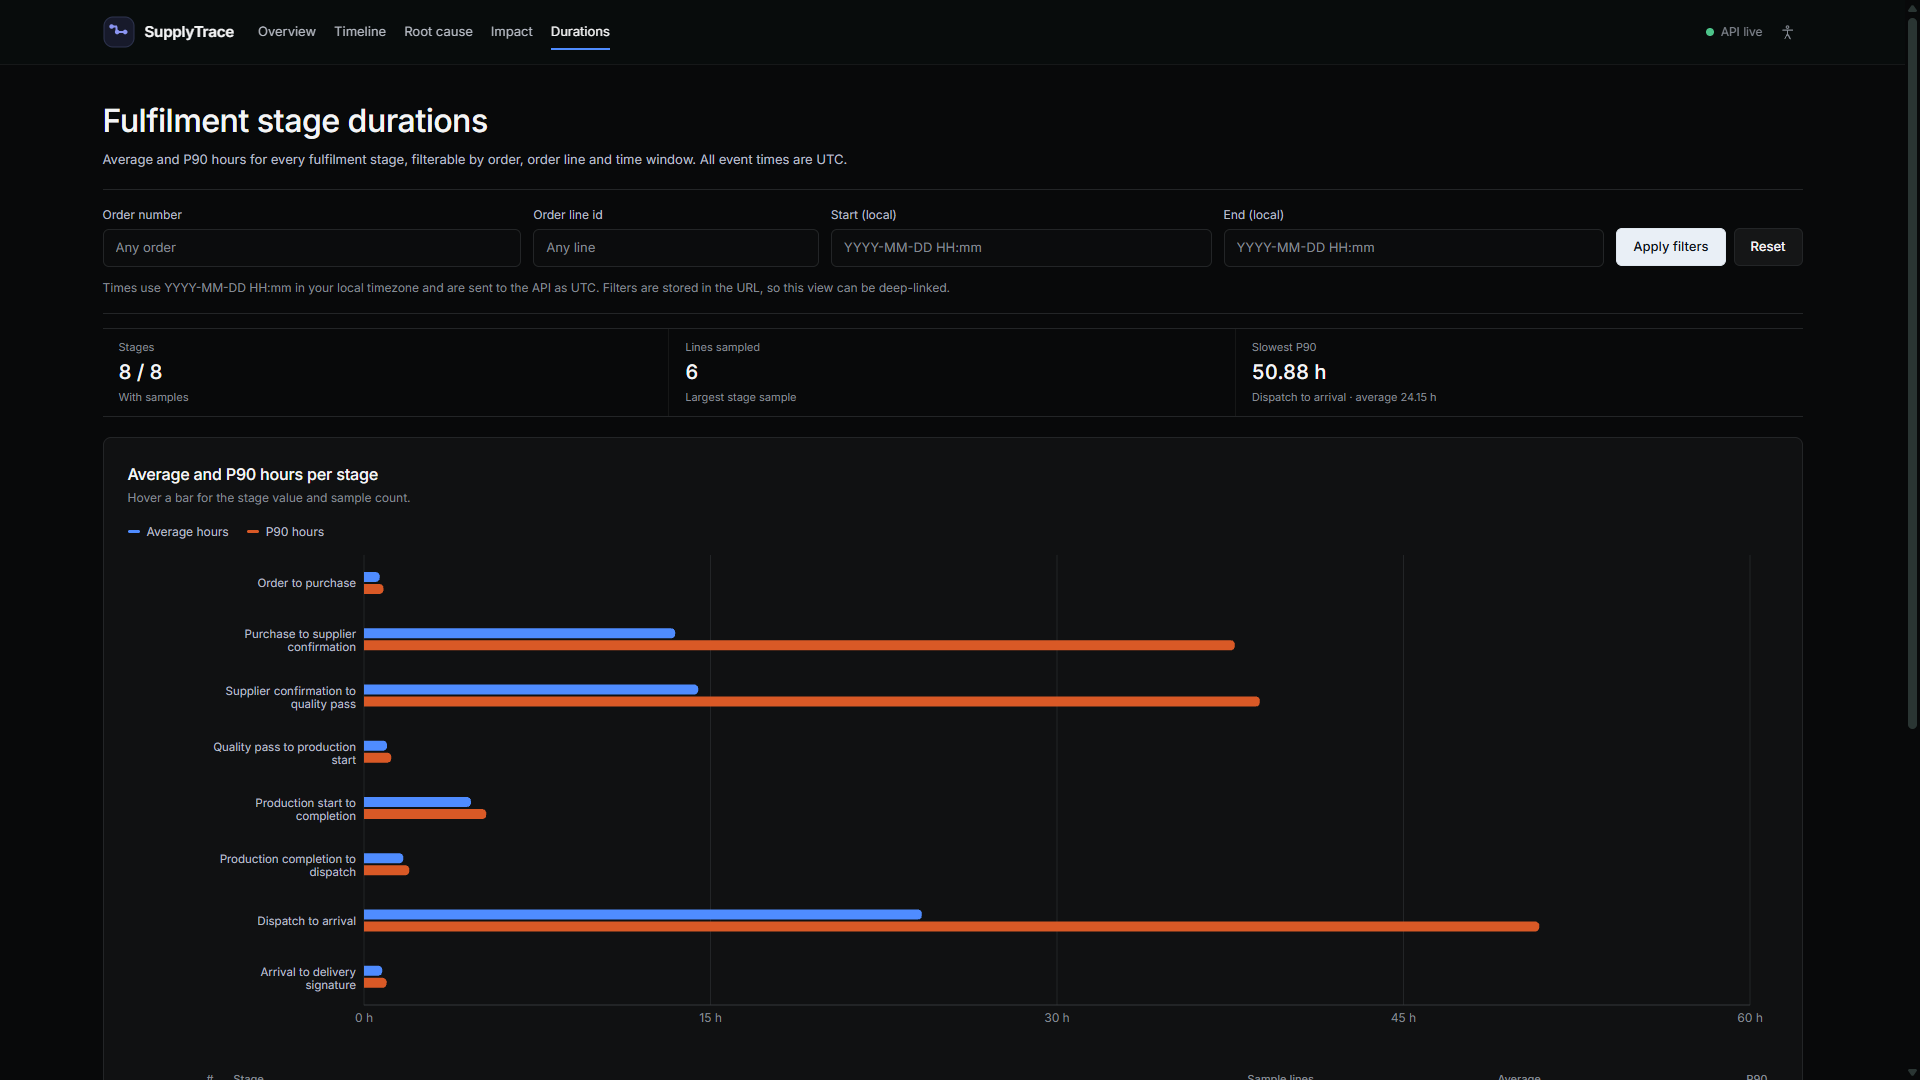
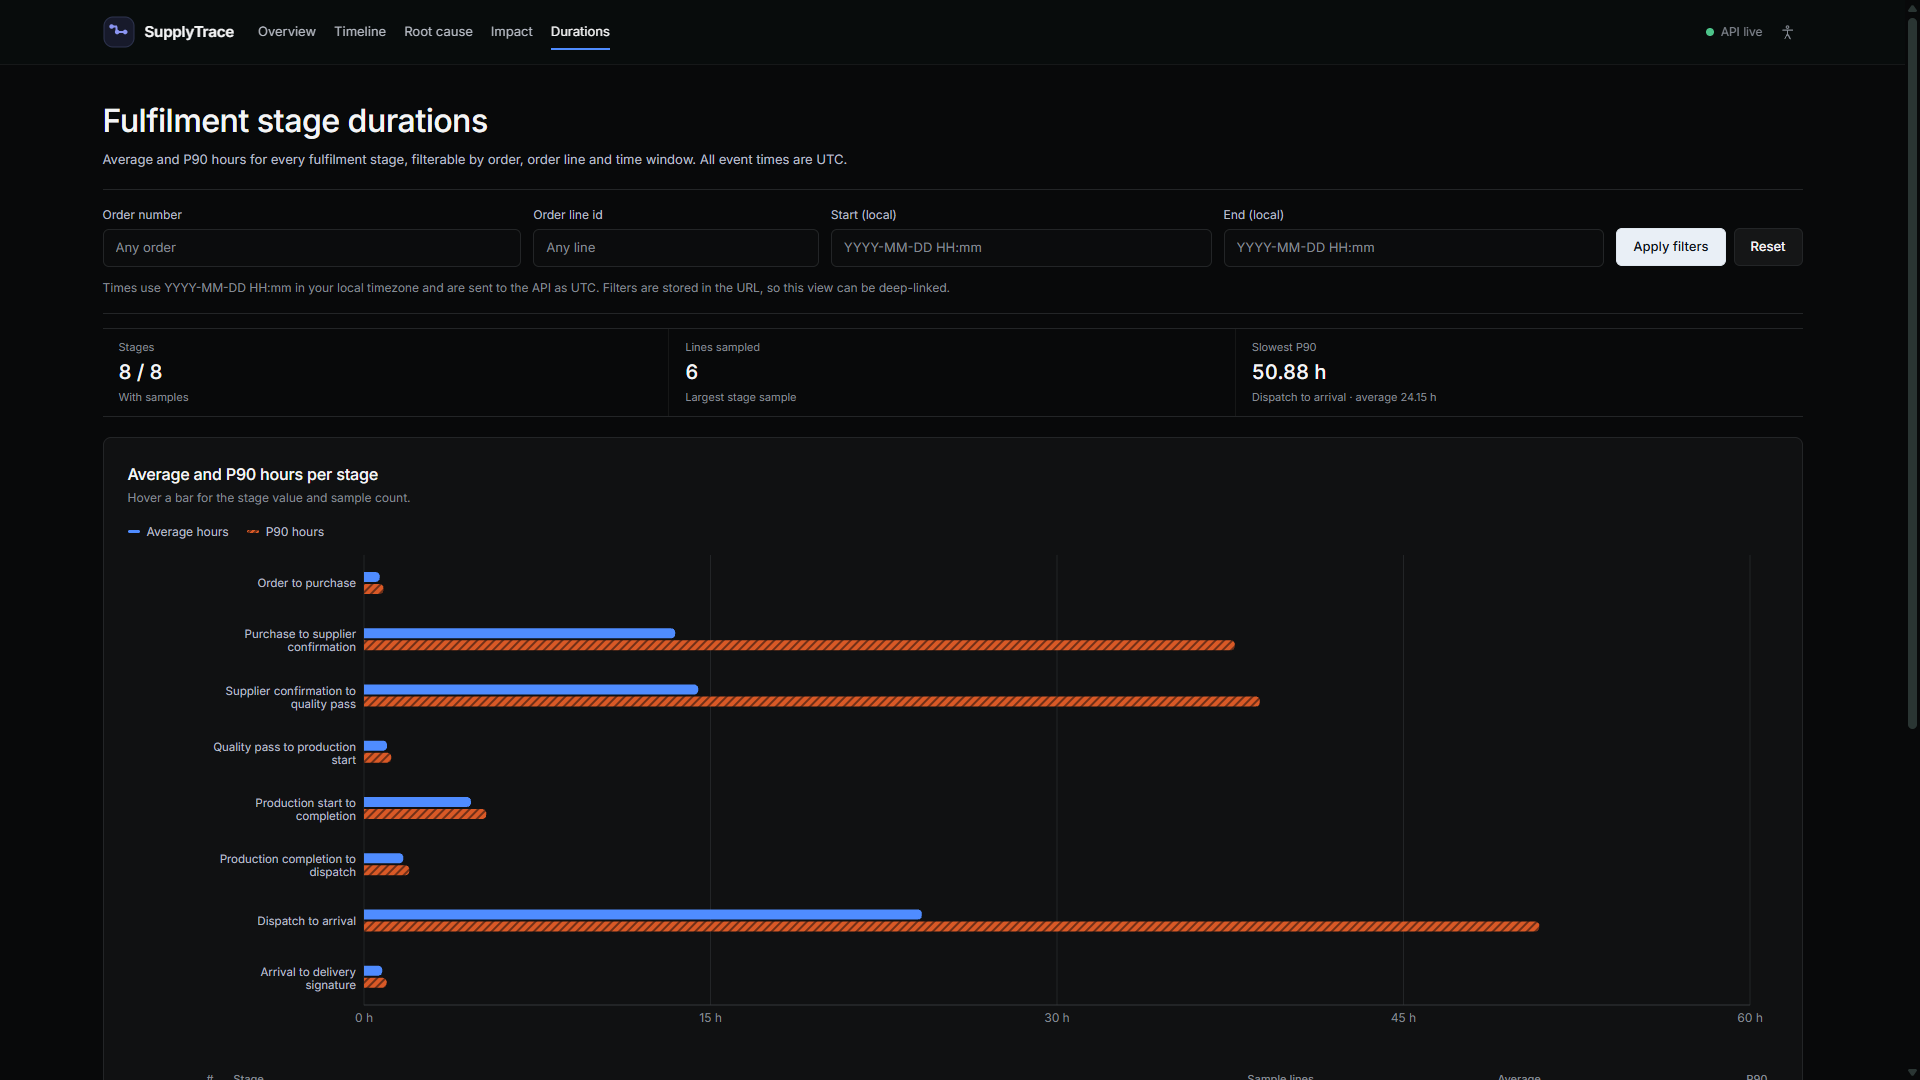
feat(frontend): add a non-color pattern to the P90 series

diff --git a/frontend/src/components/DurationChart.tsx b/frontend/src/components/DurationChart.tsx
@@ -11,6 +11,10 @@ import type { Stage } from '../types'
 import { formatHours, formatNumber } from '../lib/format'
 import { SERIES } from '../lib/theme'
 
+const P90_PATTERN = 'p90-stripes'
+const P90_HATCH =
+  'repeating-linear-gradient(135deg, transparent 0 2px, rgba(8, 9, 10, 0.5) 2px 4px)'
+
 interface TooltipItem {
   value?: number | null
   name?: string
@@ -72,7 +76,14 @@ function DurationTooltip({ active, label, payload }: DurationTooltipProps) {
       <div className="chart-tooltip__rows">
         {payload.map((item) => (
           <div className="chart-tooltip__row" key={String(item.dataKey)}>
-            <span className="chart-tooltip__key" style={{ background: item.color }} />
+            <span
+              className="chart-tooltip__key"
+              style={
+                item.dataKey === 'p90'
+                  ? { backgroundColor: SERIES.p90, backgroundImage: P90_HATCH }
+                  : { background: item.color }
+              }
+            />
             <span className="chart-tooltip__value">{formatHours(item.value ?? null)}</span>
             <span className="chart-tooltip__name">{item.name}</span>
           </div>
@@ -102,7 +113,10 @@ export function DurationChart({ stages }: { stages: Stage[] }) {
           Average hours
         </span>
         <span className="chart-legend__item">
-          <span className="chart-legend__swatch" style={{ background: SERIES.p90 }} />
+          <span
+            className="chart-legend__swatch"
+            style={{ backgroundColor: SERIES.p90, backgroundImage: P90_HATCH }}
+          />
           P90 hours
         </span>
       </div>
@@ -115,6 +129,18 @@ export function DurationChart({ stages }: { stages: Stage[] }) {
             barGap={2}
             barCategoryGap="26%"
           >
+            <defs>
+              <pattern
+                id={P90_PATTERN}
+                width="6"
+                height="6"
+                patternUnits="userSpaceOnUse"
+                patternTransform="rotate(45)"
+              >
+                <rect width="6" height="6" fill={SERIES.p90} />
+                <rect width="2" height="6" fill="rgba(8, 9, 10, 0.5)" />
+              </pattern>
+            </defs>
             <CartesianGrid horizontal={false} stroke="#232527" strokeWidth={1} />
             <XAxis
               type="number"
@@ -148,7 +174,7 @@ export function DurationChart({ stages }: { stages: Stage[] }) {
             <Bar
               dataKey="p90"
               name="P90"
-              fill={SERIES.p90}
+              fill={`url(#${P90_PATTERN})`}
               barSize={10}
               radius={[0, 4, 4, 0]}
               isAnimationActive={false}

diff --git a/frontend/src/styles.css b/frontend/src/styles.css
@@ -1,4 +1,3 @@
-/* avoid-ai-design-ignore: SD2 status colors are semantic, not a brand accent; accent is blue. */
 :root {
   color-scheme: dark;
   --page: #08090a;

diff --git a/frontend/README.md b/frontend/README.md
@@ -90,7 +90,7 @@ Mock 模式只包含供应商延期路径（订单 `SO-SYN-000001` / `SO-SYN-000
 - 右上角 `Display` 菜单提供 `Color vision` 四档：`Standard`、`Red-green safe`（蓝/橙/品红）、`Blue-yellow safe`（绿/朱红/品红）、`Monochrome`（整页灰度 + 明度层级 + 圆/方/菱形/空心标记）；菜单内 `Status markers` 图例用颜色和文字标出 Normal/Warning/Failed/Completed/Cancelled，Monochrome 下同一图例显示对应形状。另有 `High contrast` 和 `Reduce motion`。偏好写入 localStorage，状态仍带图标与文字标签。
 - 根因页 Event context 的 Order / line 优先显示订单号（基准场景映射或 `?order=` 上下文），只有未知事件才退回内部 `#id`；从受影响订单打开导航时，Root cause / Impact 指向该场景的根因事件。
 - 影响图在每条订单 lane 的起始卡片上方标注订单号，并在面板说明中按自上而下列出订单，长图滚动时也能从起点识别每条链。
-- 最新异常表在订单号下显示客户、在时间下显示承诺日期，便于先按客户和承诺做分诊；耗时页主指标为 `Slowest P90`，平均值保留在副文案和图表中。
+- 最新异常表在订单号下显示客户、在时间下显示承诺日期，便于先按客户和承诺做分诊；耗时页主指标为 `Slowest P90`，平均值保留在副文案和图表中。P90 柱使用斜纹填充，Average 保持实心，颜色之外还有纹理可区分。
 - 导航以 `sessionStorage` 记住最近一组有效上下文（查看的订单、事件及其所属订单）；回到 Overview/Durations 后仍指向它，导航的 Root cause / Impact 也带 `?order=`。从事件进入某订单的时间线后，该订单的 Root cause / Impact 继续使用刚看过的事件，不会退回场景根事件；直接打开订单时由时间线发布该订单最新异常作为导航锚点。首次打开仍使用 demo 默认值。
 - 导航不绑定具体订单号或事件号：订单页锚点来自时间线响应，事件页来自 URL/接口；`DEMO_ORDER_NUMBERS`、场景映射和 `DEFAULT_*` 只是 `demo.ts` 里的演示配置。接入真实订单时，把服务端订单列表传给 `useRecentExceptions(orderNumbers)`，并替换这些默认值即可。事件/根因响应目前只有 `order_id`；若要让不带 `?order=` 的真实事件深链显示订单号，后端响应需补 `order_number`（或提供事件→订单查询）。
 - 界面文案、代码注释和属性文案全部使用英文；日期/数字输入使用英文文本框，不依赖浏览器本地化的原生控件文案。仓库 README 按团队习惯使用中文。
@@ -120,6 +120,6 @@ frontend/
 - `npm test` 通过：8 个测试文件、43 项测试（ID 解析、日期解析、阶段统计、图深度/选中节点、演示场景与 `benchmark_cases.json` 对齐、最新异常排序、时间线倒序、导航上下文解析与持久化、时间线请求合并与单调用方取消、网络/503 重试与 404 不重试）。
 - 四个视图与供应商延期路径已在本机真实 FastAPI + PostgreSQL 上逐页截图检查（1920×1080、1280、768、512、375 宽度）；另外两个基准场景的接口返回值经 API 验证。
 - 在 100,000 事件库（seed 5003，10,989 订单）上复测：基准场景的订单时间线、根因链、影响节点数和受影响订单与 57 事件库完全一致；耗时页显示 10,989 个样本（P90 15.43 h / 平均 13.06 h）；随机订单 `SO-SYN-010989` 和随机事件 `#38546` 可正常深链；1280/375 无控制台错误或横向溢出。
-- 路由级代码分割：主包 294.9 kB（gzip 92.7 kB），耗时页 378.1 kB（gzip 108.9 kB，含 Recharts）。
+- 路由级代码分割：主包 294.9 kB（gzip 92.7 kB），耗时页 378.6 kB（gzip 109.1 kB，含 Recharts）。
 - 数据 GET 请求对网络错误和 502/503/504 自动重试一次（约 300 ms 后）；懒加载 chunk 失效时 `ErrorBoundary` 会自动刷新一次，避免开发期 HMR 或部署切换留下错误页。503/504 错误页已用受控响应拦截截图验证，错误码与 HTTP 状态均来自统一信封。
 - API 契约与错误码以 [docs/part3/API_CONTRACT.md](../docs/part3/API_CONTRACT.md) 为准；字段未在前端猜测或改名。

diff --git a/docs/part4/README.md b/docs/part4/README.md
@@ -50,10 +50,10 @@ Precision Dark：中性石墨表面、发丝边框、单一蓝色强调色；Nor
 - 影响图在每条订单 lane 的起始卡片上方标注订单号，并按自上而下的顺序在说明中列出，避免把并行的订单链误读为重复事件。
 - 顶栏 `Display` 菜单提供 `Color vision` 四档（Standard / Red-green safe / Blue-yellow safe / Monochrome）、高对比度和减少动效，偏好保存在本地；菜单内 `Status markers` 图例用颜色和文字标出各状态，Monochrome 下整页转灰度，同一图例显示圆/方/菱形/空心标记；状态徽章和圆点始终带图标与文字，不依赖单一颜色。
 - 从受影响订单进入导航时，Root cause / Impact 指向该场景的根因事件（例如订单 2 指向 `#3`，不再指向订单 1 的 `#10`）；根因页 Event context 显示订单号而非只有内部 `#id`。
-- 最新异常表补充客户与承诺日期（订单号/时间下方副行），耗时页主指标改为 `Slowest P90`，平均值保留在副文案和图表中。
+- 最新异常表补充客户与承诺日期（订单号/时间下方副行），耗时页主指标改为 `Slowest P90`，平均值保留在副文案和图表中；P90 柱使用斜纹填充，Average 保持实心，不依赖颜色区分两个系列。
 - 导航以 sessionStorage 记住最近一组有效上下文（订单、事件及其所属订单）；从事件页回到 Overview 后，Timeline / Root cause / Impact 不再跳回 demo 默认值，事件导航链接也继续带 `?order=`。从事件进入订单时间线后，该订单的 Root cause / Impact 保持刚看过的事件；直接打开订单时由时间线发布该订单最新异常作为锚点，不会落到另一个订单的场景根事件。
 - 导航逻辑不绑定具体订单号/事件号：订单页来自时间线响应，事件页来自 URL；demo 订单列表、场景映射和默认值集中在 `demo.ts`。接入真实订单时把服务端订单列表传给 `useRecentExceptions(orderNumbers)` 并替换演示默认值即可；不带 `?order=` 的真实事件深链还需后端在事件响应中补 `order_number`。
-- `npm run typecheck`、`npm run build`、`npm test` 通过（8 个测试文件、43 项测试）；路由级代码分割后主包 294.9 kB（gzip 92.7 kB），耗时页 378.1 kB（gzip 108.9 kB，含 Recharts）。
+- `npm run typecheck`、`npm run build`、`npm test` 通过（8 个测试文件、43 项测试）；路由级代码分割后主包 294.9 kB（gzip 92.7 kB），耗时页 378.6 kB（gzip 109.1 kB，含 Recharts）。
 - 数据 GET 请求对网络错误和 502/503/504 自动重试一次（约 300 ms 后）；懒加载 chunk 失效时 `ErrorBoundary` 自动刷新一次，减少偶发错误页需要手动刷新的情况。
 
 ## 三个基准场景的界面证据

diff --git a/docs/part4/VIDEO_STORYBOARD.md b/docs/part4/VIDEO_STORYBOARD.md
@@ -35,7 +35,7 @@ Every action is repeatable against the real API. Before recording, confirm the h
 ## Shot 5: Stage durations (about 30 seconds)
 
 - URL: `/durations`
-- Action: with the 57-event benchmark dataset loaded, show the metric strip (8/8 stages, 6 lines sampled, slowest P90 50.88 h for "Dispatch to arrival" with average 24.15 h); hover "Dispatch to arrival" for the sample count; enter `SO-SYN-000001` in Order number and click Apply to show the URL filter; click Reset.
+- Action: with the 57-event benchmark dataset loaded, show the metric strip (8/8 stages, 6 lines sampled, slowest P90 50.88 h for "Dispatch to arrival" with average 24.15 h); point out the striped P90 bars versus solid Average bars; hover "Dispatch to arrival" for the sample count; enter `SO-SYN-000001` in Order number and click Apply to show the URL filter; click Reset.
 - Note: the 100k dataset keeps the same scenario event ids and impact/root results, but its duration aggregates differ (10,989 samples; P90 15.43 h / average 13.06 h at seed 5003). State the dataset in the voice-over and use the values shown on screen; do not read the 57-event numbers over a 100k-dataset recording.
 - Voice-over: P90 uses `percentile_cont(0.9)` with linear interpolation; filters live in the URL and can be deep-linked.
 - Screenshot: `durations-1920.png`
